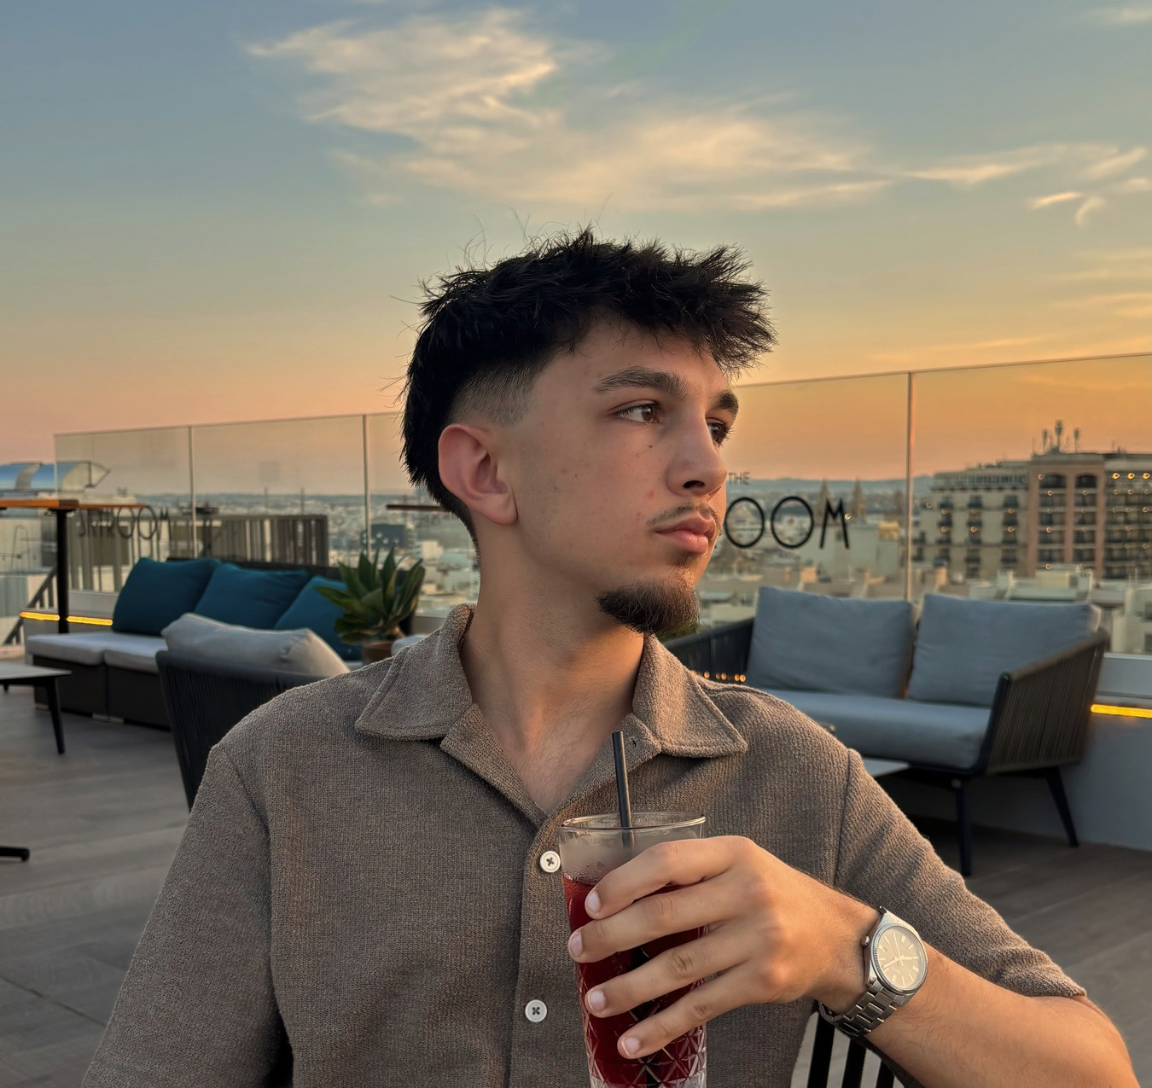
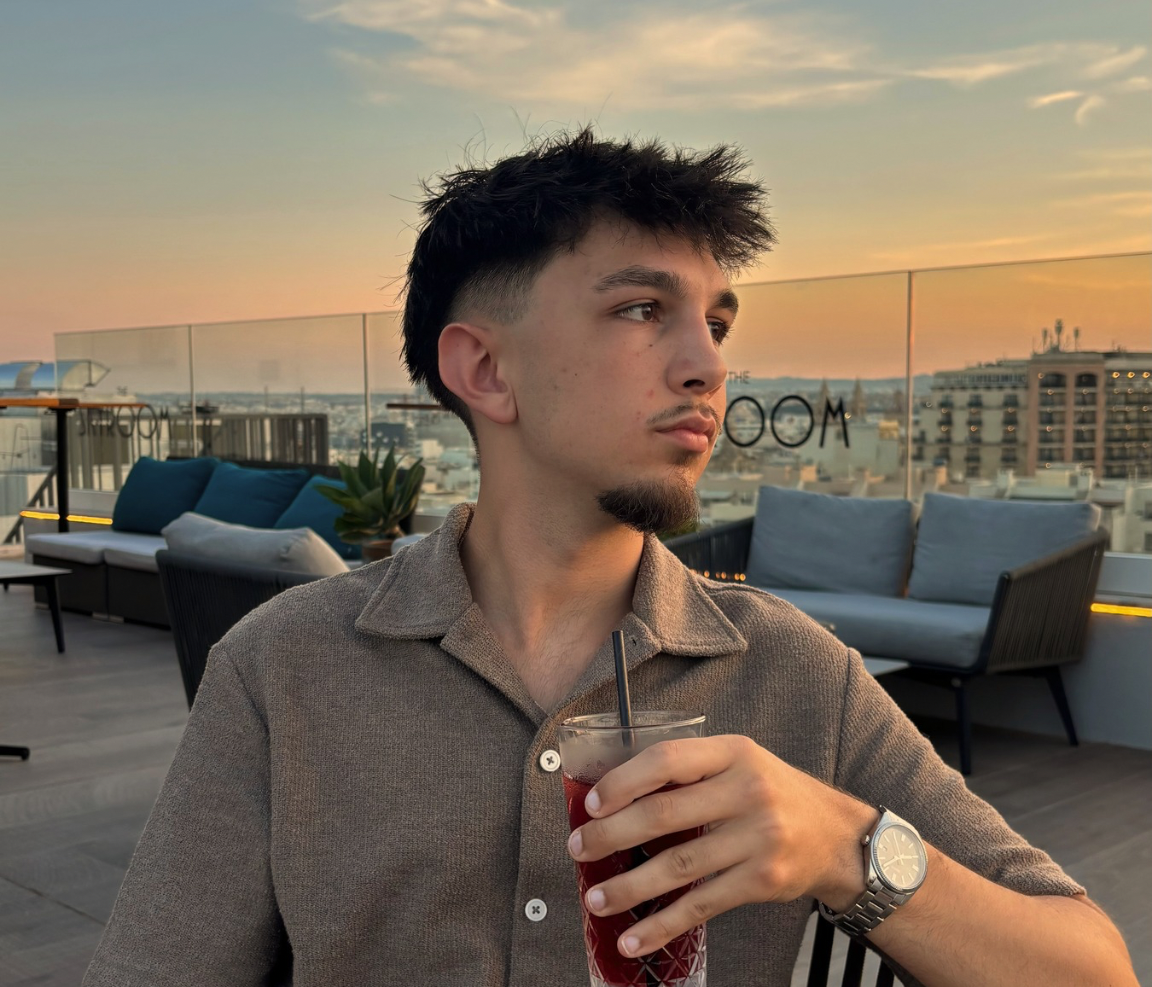
new portfolio

diff --git a/script.js b/script.js
@@ -15,8 +15,8 @@ const T = {
         "about.p2": "J'ai travaillé pour des clients dans des <strong>niches variées</strong> allant du coaching business à l'e-com, en passant par le sport <br> et la séduction.",
         "about.p3": "<span style='font-family:Instrument Serif,serif;font-style:italic;font-size:clamp(20px);line-height:1.3;color:#fff;'>Aujourd'hui, j’aide les entrepreneurs qui veulent <span style='color:var(--blue)'>attirer plus de clients,</span> et <span style='color:var(--blue)'>vendre mieux.</span> <br></span>Et quand je ne suis pas derrière mon clavier, je suis sur un court en train de taper la balle <span style='color:var(--blue)'>à la Rafa ! 🎾</span></span>", "port.label": "/ 02 — Portfolio", "port.title": "Mes <em>chefs-<br>d'œuvre.</em>", "port.right": "Clique pour\nvoir les projets",
         "about.tag": "France · 2025",
-        "ig.label": "/ 03 — Instagram", "ig.title": "Sur <em>Instagram.</em>", "ig.right": "@aaron.copywriting\nTémoignages · Cases",
-        "ig.headline": "Témoignages,<br>cases & <em>coulisses.</em>", "ig.handle": "@aaron.copywriting", "ig.btn": "Suivre sur Instagram",
+        "ig.label": "/ 03 — Instagram", "ig.title": "Sur <em>Instagram.</em>", "ig.right": "@aaron.vichard\nTémoignages · Cases",
+        "ig.headline": "Témoignages,<br>cases & <em>coulisses.</em>", "ig.handle": "@aaron.vichard", "ig.btn": "Suivre sur Instagram",
         "testi.label": "/ 04 — Témoignages", "testi.title": "Ils en <em>parlent</em><br>mieux que moi.", "testi.right": "Vidéos clients\nauthentiques",
         "testi.tag": "Témoignage",
         "cta.label": "Ready when you are", "cta.title": "On <em>parle</em> ?", "cta.btn": "Réserver un appel",
@@ -41,8 +41,8 @@ const T = {
         "about.p3": "<span style='font-family:Instrument Serif,serif;font-style:italic;font-size:clamp(17px,1.0vw,24px);line-height:1.3;color:#fff;'>Today, I help entrepreneurs <span style='color:var(--blue)'>attract more clients</span> and <span style='color:var(--blue)'>sell more effectively.</span> <br></span>And when I'm not behind my keyboard, you'll probably find me on a tennis court trying to play <span style='color:var(--blue)'>like Rafa! 🎾</span></span>",        
         "about.tag": "France · 2025",
         "port.label": "/ 02 — Portfolio", "port.title": "My <em>master-<br>pieces.</em>", "port.right": "Click to\nsee projects",
-        "ig.label": "/ 03 — Instagram", "ig.title": "On <em>Instagram.</em>", "ig.right": "@aaron.copywriting\nTestimonials · Cases",
-        "ig.headline": "Testimonials,<br>cases & <em>behind the scenes.</em>", "ig.handle": "@aaron.copywriting", "ig.btn": "Follow on Instagram",
+        "ig.label": "/ 03 — Instagram", "ig.title": "On <em>Instagram.</em>", "ig.right": "@aaron.vichard\nTestimonials · Cases",
+        "ig.headline": "Testimonials,<br>cases & <em>behind the scenes.</em>", "ig.handle": "@aaron.vichard", "ig.btn": "Follow on Instagram",
         "testi.label": "/ 04 — Testimonials", "testi.title": "They say it<br>better than <em>me.</em>", "testi.right": "Authentic\nclient videos",
         "testi.tag": "Testimonial",
         "cta.label": "Ready when you are", "cta.title": "Let's <em>talk?</em>", "cta.btn": "Book a call",
@@ -361,9 +361,9 @@ const hero = document.querySelector(".hero-photo");
 
 document.addEventListener("mousemove", (e) => {
 
-    const x = (e.clientX / window.innerWidth - .5) * 12;
+    const x = (e.clientX / window.innerWidth - .5) * 4;
 
-    const y = (e.clientY / window.innerHeight - .5) * 12;
+    const y = (e.clientY / window.innerHeight - .5) * 4;
 
     hero.style.transform = `translate(${x}px,${y}px)`;
 

diff --git a/index.html b/index.html
@@ -164,14 +164,14 @@
             <div class="section-label" id="ig-label">/ 03 — Instagram</div>
             <h2 class="section-title" id="ig-title">Sur <em>Instagram.</em></h2>
           </div>
-          <div class="section-right" id="ig-right">@aaron.copywriting<br>Témoignages · Cases</div>
+          <div class="section-right" id="ig-right">@aaron.vichard<br>Témoignages · Cases</div>
         </div>
       </div>
 
       <div class="card-block ig-text-card reveal">
         <h3 class="ig-headline" id="ig-headline">Témoignages,<br>cases & <em>coulisses.</em></h3>
-        <div class="ig-handle" id="ig-handle">@aaron.copywriting</div>
-        <a href="https://www.instagram.com/aaron.copywriting" target="_blank" class="ig-btn" id="ig-btn">
+        <div class="ig-handle" id="ig-handle">@aaron.vichard</div>
+        <a href="https://www.instagram.com/aaron.vichard" target="_blank" class="ig-btn" id="ig-btn">
           <span id="ig-btn-text">Suivre sur Instagram</span>
           <span class="arrow-c">↗</span>
         </a>
@@ -373,7 +373,7 @@
     <div id="footer-copy">© 2026 Aaron · Copywriter</div>
     <div class="footer-right">
       <a href="mailto:aaron.copyy@gmail.com">aaron.copyy@gmail.com</a>
-      <a href="https://www.instagram.com/aaron.copywriting" target="_blank">@aaron.copywriting</a>
+      <a href="https://www.instagram.com/aaron.vichard" target="_blank">@aaron.vichard</a>
     </div>
   </footer>
 
